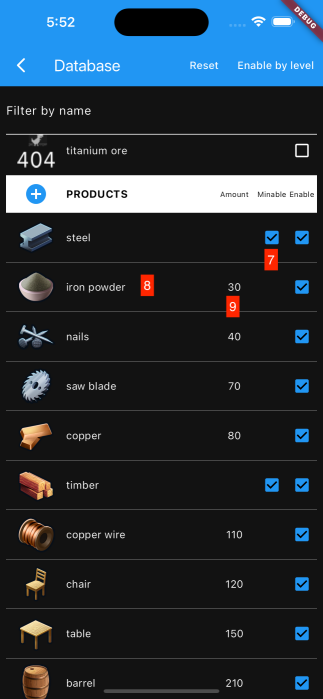
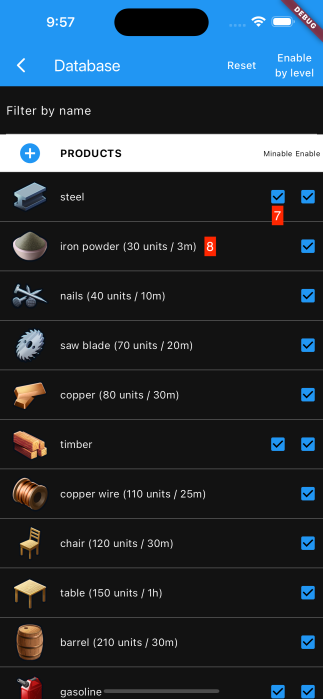
Manual

diff --git a/lib/help_page.dart b/lib/help_page.dart
@@ -1,0 +1,87 @@
+/*
+  Train Station 2 Calculator - Simple resource calculator to play TrainStation2
+  Copyright © 2024 SoleilPQD
+
+  This program is free software: you can redistribute it and/or modify
+  it under the terms of the GNU General Public License as published by
+  the Free Software Foundation, either version 3 of the License, or
+  (at your option) any later version.
+
+  This program is distributed in the hope that it will be useful,
+  but WITHOUT ANY WARRANTY; without even the implied warranty of
+  MERCHANTABILITY or FITNESS FOR A PARTICULAR PURPOSE.  See the
+  GNU General Public License for more details.
+
+  You should have received a copy of the GNU General Public License
+  along with this program.  If not, see <https://www.gnu.org/licenses/>.
+ */
+
+import 'package:flutter/material.dart';
+import 'package:flutter/services.dart';
+import 'package:flutter_markdown/flutter_markdown.dart';
+
+class HelpPage extends StatefulWidget {
+
+  const HelpPage({super.key});
+
+  @override
+  State<StatefulWidget> createState() => _HelpPageState();
+
+}
+
+class _HelpPageState extends State<HelpPage> {
+
+  String _data = "";
+  int _index = 0;
+  final List<String> _titles = ["Start", "Main Screen", "Selection Screen", "Database Screen", "Product Detail Screen"];
+  final List<String> _files = ["index", "main_screen", "selection_screen", "database_screen", "product_detail"];
+
+  @override
+  void initState() {
+    super.initState();
+    _loadData();
+  }
+
+  void _loadData() {
+    rootBundle.loadString("assets/manual/${_files[_index]}.md").then((value) => setState(() {
+      _data = value;
+    }));
+  }
+
+  @override
+  Widget build(BuildContext context) {
+    List<TextButton> headerItems = [];
+    for (int idx = 0; idx < _files.length; idx += 1) {
+      TextStyle? titleStyle;
+      if (idx == _index) {
+        titleStyle = const TextStyle(fontWeight: FontWeight.bold, color: Colors.white);
+      }
+      headerItems.add(TextButton(
+        onPressed: () => _sectionOnTap(idx),
+        child: Text(_titles[idx], style: titleStyle)
+      ));
+    }
+    return Scaffold(
+      appBar: AppBar(
+        backgroundColor: Theme.of(context).colorScheme.primary,
+        title: const Text("Manual\n(5 pages)", textAlign: TextAlign.center)
+      ),
+      body: Column(children: [
+        SizedBox(
+          height: 32,
+          child: ListView(
+            scrollDirection: Axis.horizontal,
+            children: headerItems
+          )
+        ),
+        Expanded(child: Markdown(data: _data))
+      ])
+    );
+  }
+
+  void _sectionOnTap(int index) {
+    _index = index;
+    _loadData();
+  }
+
+}

diff --git a/lib/main.dart b/lib/main.dart
@@ -26,7 +26,7 @@ import 'package:train_station_2_calc/database.dart';
 import 'package:train_station_2_calc/database_page.dart';
 import 'package:train_station_2_calc/data_selection_page.dart';
 import 'package:train_station_2_calc/dialogs.dart';
-import 'package:train_station_2_calc/markdown_page.dart';
+import 'package:train_station_2_calc/help_page.dart';
 import 'package:train_station_2_calc/models.dart';
 import 'package:sqflite_common_ffi/sqflite_ffi.dart';
 // import 'package:url_launcher/url_launcher_string.dart';
@@ -433,6 +433,7 @@ class _MyHomePageState extends State<MyHomePage> with RouteAware {
           break;
         }
       }
+      if ((isAdd ?? false) || amount.isEmpty) amount = "${item.amount}";
     }
     inputNumberDialogBuilder(
       context,
@@ -486,7 +487,7 @@ class _MyHomePageState extends State<MyHomePage> with RouteAware {
   }
 
   void _helpOnTap() {
-    Navigator.push(context, MaterialPageRoute(builder: (_) => const MarkdownPage()));
+    Navigator.push(context, MaterialPageRoute(builder: (_) => const HelpPage()));
   }
 
 }

diff --git a/lib/database_page.dart b/lib/database_page.dart
@@ -321,6 +321,7 @@ class _DatabasePageState extends State<DatabasePage> with RouteAware {
     _addNewItem("Input product name", name: name, (text) async {
       if (await _dataController.addNewProduct(text)) {
         setState(() {});
+        _productRowOnSelection(0);
       } else if (text.isNotEmpty) {
         showRetry(
           // ignore: use_build_context_synchronously

diff --git a/DOCS/end_user_manual.md b/DOCS/end_user_manual.md
@@ -10,17 +10,25 @@ This is the 1st screen when you launch this app and where you make calculations.
 
 ![Main](assets/main.png)
 
-There are 3 sections:
+There are 4 sections:
 - **INPUT**: list of items that you require.
 - **INVENTORY**: list of items that you have already in your **Warehouse**.
 - **RESULT**: list of result items that you need to mine or produce.
   - Column **Quantity**: item amount.
   - Column **Prod**: number of times that you have to produce the item in the factory.
-- Use buttons **1** and **4** to fold/unfold **INPUT** and **INVENTORY** sections.
-- Use button **2** to clear all calculations. Use button **7** to remove the item.
+- **SUMMARY**:
+  - **Production duraton**: Total time to produces required products. In game, productions are produced parallely in differents factories; in-game-time may be lower.
+  - **Minerals quantity**: amount of minerals - materials to produce products.
+  - **Products quantity**: amount of products (products to be produced + products to be transfered from map factories).
+
+Controls:
+- Use buttons **4** to fold/unfold equivalent **INPUT** and **INVENTORY** sections. Use buttons **1** to fold/unfold both sections.
+- Use button **2** to clear all calculations (also clear item selection history in **Selection Screen**). Use button **7** to remove the item.
 - Use button **3** to go to **Database Screen**.
-- Use button **5** to go to **Selection Screen** to add item.
+- Use button **5** to go to **Selection Screen** to add item to equivalent section.
 - Tap on item row (**6**) to edit item's quantity.
+- Use button +/- (**8**) to add/remove am amount to the current quantity of equivalent item.
+- Note: editing quantity of items in **RESULT** section is applied to **INVENTORY** section.
 
 ## II. Selection Screen
 
@@ -35,27 +43,43 @@ This is the screen where you select item for **Main Screen** (and for some featu
 
 This is where list all items and allow you to apply settings.
 
-![Database](assets/database1.png)
-
-![Database](assets/database2.png)
-
 There are 2 sections:
 
 - **MINERALS**: items that you have to transport from mines on the map.
 - **PRODUCTS**: items that you have to produce in factories at your station.
+
+Controls
+
+![Database](assets/database1.png)
+
 - Input text into field **3** to filter items which contain the given text.
 - Use checkmark **Enable** (**6**) to enable/disable item.
 - Some products have factory on the map (so you don't need to produce in the factory at your station). Turn on checkmark **Minable** (**7**) if you have unlocked the product factory on the map.
 - Use button **Reset** (**1**) to reset database to default.
 - Use button **Enable by level** (**2**) to enable items based on your **level**. This also enables all the products **Minable** so you may have to manualy turn it off.
-- User button **+** (**4**) to add your own item. The checkmark **Enable** (**6**) is replaced by **Delete** button, and the checkmark **Minable** (**7**) is always visible on your own item row.
-- Tap on item icon (**5**) to edit item icon.
-- Tap on product amount (**9**) to edit the amount of product on each production in your station factory.
-- Tap on product name (**8**) to go to **Material Screen** to edit materials to produce the product.
+- User button **+** (**4**) to add your own item. The checkmark **Enable** (**6**) is replaced by **Delete** button (Your own item has not **Enable** property - it is always enabled).
+- Tap on item icon (**5**) to change item icon.
 
-## IV. Material Screen
+![Database](assets/database2.png)
 
-![Material](assets/product_materials.png)
+- Tap on product name (**8** - Name (Amount / Time for each production)) to go to **Product Detail Screen** to edit product detail.
+
+## IV. Product Detail Screen
+
+![Detail](assets/product_detail.png)
+
+**GENERAL**
+
+Some fields are hidden depending on product settings.
+
+- **Enable**: product enable (equivalent checkmark **6** on **Database Screen**).
+- **Region factory available**: there is a region factory for current product. If this option is enable, checkmark **7** on **Database Screen** is visible.
+- **Region factory unlocked**: the region factory is unlocked. This option is equivalent to checkmark **7** on **Database Screen**.
+- **Production quantity** & **Production duration**: the quantity and the duration each time to produce the product in the factory at your station.
+
+**MATERIAL**
+
+List of materials to produce current product.
 
 - Use button **+** (**1**) to add material to produce current product.
 - Use button **3** to remove material.

diff --git a/assets/manual/main_screen.md b/assets/manual/main_screen.md
@@ -1,0 +1,25 @@
+# Main Screen
+
+This is the 1st screen when you launch this app and where you make calculations.
+
+![Main](resource:assets/manual/assets/main.png)
+
+There are 4 sections:
+- **INPUT**: list of items that you require.
+- **INVENTORY**: list of items that you have already in your **Warehouse**.
+- **RESULT**: list of result items that you need to mine or produce.
+  - Column **Quantity**: item amount.
+  - Column **Prod**: number of times that you have to produce the item in the factory.
+- **SUMMARY**:
+  - **Production duraton**: Total time to produces required products. In game, productions are produced parallely in differents factories; in-game-time may be lower.
+  - **Minerals quantity**: amount of minerals - materials to produce products.
+  - **Products quantity**: amount of products (products to be produced + products to be transfered from map factories).
+
+Controls:
+- Use buttons **4** to fold/unfold equivalent **INPUT** and **INVENTORY** sections. Use buttons **1** to fold/unfold both sections.
+- Use button **2** to clear all calculations (also clear item selection history in **Selection Screen**). Use button **7** to remove the item.
+- Use button **3** to go to **Database Screen**.
+- Use button **5** to go to **Selection Screen** to add item to equivalent section.
+- Tap on item row (**6**) to edit item's quantity.
+- Use button +/- (**8**) to add/remove am amount to the current quantity of equivalent item.
+- Note: editing quantity of items in **RESULT** section is applied to **INVENTORY** section.

diff --git a/assets/manual/database_screen.md b/assets/manual/database_screen.md
@@ -1,0 +1,24 @@
+# Database screen
+
+This is where list all items and allow you to apply settings.
+
+There are 2 sections:
+
+- **MINERALS**: items that you have to transport from mines on the map.
+- **PRODUCTS**: items that you have to produce in factories at your station.
+
+Controls
+
+![Database](resource:assets/manual/assets/database1.png)
+
+- Input text into field **3** to filter items which contain the given text.
+- Use checkmark **Enable** (**6**) to enable/disable item.
+- Some products have factory on the map (so you don't need to produce in the factory at your station). Turn on checkmark **Minable** (**7**) if you have unlocked the product factory on the map.
+- Use button **Reset** (**1**) to reset database to default.
+- Use button **Enable by level** (**2**) to enable items based on your **level**. This also enables all the products **Minable** so you may have to manualy turn it off.
+- User button **+** (**4**) to add your own item. The checkmark **Enable** (**6**) is replaced by **Delete** button (Your own item has not **Enable** property - it is always enabled).
+- Tap on item icon (**5**) to change item icon.
+
+![Database](resource:assets/manual/assets/database2.png)
+
+- Tap on product name (**8** - Name (Amount / Time for each production)) to go to **Product Detail Screen** to edit product detail.

diff --git a/assets/manual/product_detail.md b/assets/manual/product_detail.md
@@ -1,0 +1,20 @@
+# Product Detail Screen
+
+![Detail](resource:assets/manual/assets/product_detail.png)
+
+**GENERAL**
+
+Some fields are hidden depending on product settings.
+
+- **Enable**: product enable (equivalent checkmark **6** on **Database Screen**).
+- **Region factory available**: there is a region factory for current product. If this option is enable, checkmark **7** on **Database Screen** is visible.
+- **Region factory unlocked**: the region factory is unlocked. This option is equivalent to checkmark **7** on **Database Screen**.
+- **Production quantity** & **Production duration**: the quantity and the duration each time to produce the product in the factory at your station.
+
+**MATERIAL**
+
+List of materials to produce current product.
+
+- Use button **+** (**1**) to add material to produce current product.
+- Use button **3** to remove material.
+- Tap on item row (**2**) to edit the quantity.

diff --git a/assets/manual/selection_screen.md b/assets/manual/selection_screen.md
@@ -1,0 +1,8 @@
+# Selection Screen
+
+This is the screen where you select item for **Main Screen** (and for some features in **Database Screen**).
+
+![Selection](resource:assets/manual/assets/data_selection.png)
+
+- Input text into field **1** to filter items which contain the given text.
+- Tap on item row to select.

diff --git a/assets/manual/index.md b/assets/manual/index.md
@@ -1,0 +1,5 @@
+# End-User Manual
+
+On the fist time launching this app, you should visit the **Database Screen** (button number **3** on **Main Screen**) and apply your settings.
+
+To begin, please go to **Main Screen** section.
